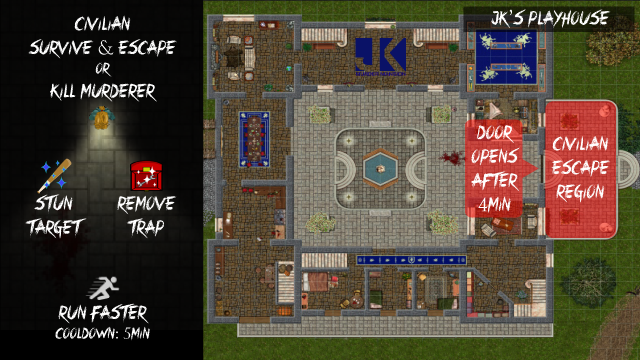
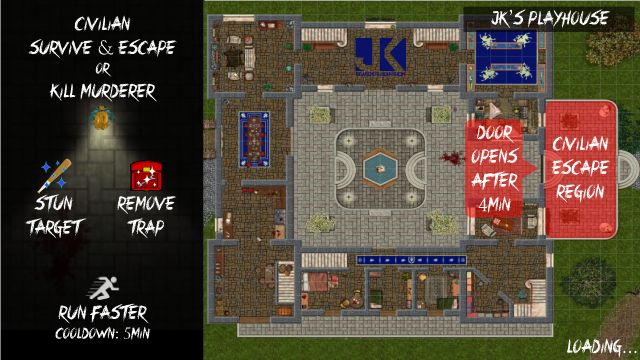
Enhanced tutorial page

Changed region(s): [[0.875, 0.9472, 0.9688, 1.0]]

diff --git a/MurderMansion/core/src/com/jkjk/Screens/TutorialScreen.java b/MurderMansion/core/src/com/jkjk/Screens/TutorialScreen.java
@@ -15,6 +15,7 @@ import com.badlogic.gdx.scenes.scene2d.ui.Image;
 import com.badlogic.gdx.scenes.scene2d.utils.ClickListener;
 import com.badlogic.gdx.utils.viewport.ExtendViewport;
 import com.jkjk.MMHelpers.AssetLoader;
+import com.jkjk.MurderMansion.MurderMansion;
 
 /**
  * @author LeeJunXiang
@@ -27,6 +28,8 @@ public class TutorialScreen implements Screen {
 	private Image civTut;
 	private Image murTut;
 	private Image hudTut;
+	private Image screenTut;
+	private Image mapTut;
 	private Image civButton;
 	private Image murButton;
 	private Image civButtonDown;
@@ -34,12 +37,14 @@ public class TutorialScreen implements Screen {
 	private Image backButton;
 	private Image nextButton;
 
-	public TutorialScreen(final MenuScreen menuScreen, float gameWidth, float gameHeight) {
+	public TutorialScreen(final MurderMansion game, final float gameWidth, final float gameHeight) {
 		stage = new Stage(new ExtendViewport(gameWidth, gameHeight));
 		page1 = new Image(AssetLoader.tutorialP1);
 		civTut = new Image(AssetLoader.civTut);
 		murTut = new Image(AssetLoader.murTut);
 		hudTut = new Image(AssetLoader.hudTutorial);
+		screenTut = new Image(AssetLoader.screenTutorial);
+		mapTut = new Image(AssetLoader.mapTutorial);
 
 		civButton = new Image(AssetLoader.civButton);
 		civButton.setPosition(464, 154);
@@ -106,9 +111,21 @@ public class TutorialScreen implements Screen {
 			@Override
 			public void clicked(InputEvent event, float x, float y) {
 				AssetLoader.clickSound.play(AssetLoader.VOLUME);
-				stage.clear();
-				stage.addActor(hudTut);
-				stage.addActor(backButton);
+				if (stage.getActors().first().equals(hudTut)) {
+					stage.clear();
+					stage.addActor(screenTut);
+					stage.addActor(backButton);
+					stage.addActor(nextButton);
+				} else if (stage.getActors().first().equals(screenTut)) {
+					stage.clear();
+					stage.addActor(mapTut);
+					stage.addActor(backButton);
+				} else {
+					stage.clear();
+					stage.addActor(hudTut);
+					stage.addActor(backButton);
+					stage.addActor(nextButton);
+				}
 			}
 
 		});
@@ -124,9 +141,20 @@ public class TutorialScreen implements Screen {
 					stage.addActor(murButton);
 					stage.addActor(backButton);
 					stage.addActor(nextButton);
+				} else if (stage.getActors().first().equals(screenTut)) {
+					stage.clear();
+					stage.addActor(hudTut);
+					stage.addActor(backButton);
+					stage.addActor(nextButton);
+				} else if (stage.getActors().first().equals(mapTut)) {
+					stage.clear();
+					stage.addActor(screenTut);
+					stage.addActor(backButton);
+					stage.addActor(nextButton);
 				} else {
 					stage.clear();
-					((Game) Gdx.app.getApplicationListener()).setScreen(menuScreen);
+					((Game) Gdx.app.getApplicationListener()).setScreen(new MenuScreen(game, gameWidth,
+							gameHeight));
 				}
 			}
 
@@ -212,7 +240,7 @@ public class TutorialScreen implements Screen {
 	@Override
 	public void dispose() {
 		// TODO Auto-generated method stub
-
+		stage.dispose();
 	}
 
 }

diff --git a/MurderMansion/core/src/com/jkjk/Screens/LoadingScreen.java b/MurderMansion/core/src/com/jkjk/Screens/LoadingScreen.java
@@ -6,18 +6,13 @@ package com.jkjk.Screens;
 import com.badlogic.gdx.Game;
 import com.badlogic.gdx.Gdx;
 import com.badlogic.gdx.Screen;
-import com.badlogic.gdx.graphics.g2d.Sprite;
-import com.badlogic.gdx.graphics.g2d.SpriteBatch;
 import com.badlogic.gdx.scenes.scene2d.Stage;
 import com.badlogic.gdx.scenes.scene2d.ui.Image;
 import com.badlogic.gdx.utils.viewport.ExtendViewport;
 import com.jkjk.GameWorld.GameRenderer;
 import com.jkjk.GameWorld.GameWorld;
-import com.jkjk.GameWorld.HudRenderer;
 import com.jkjk.GameWorld.MMClient;
-import com.jkjk.Host.MMServer;
 import com.jkjk.MMHelpers.AssetLoader;
-import com.jkjk.MMHelpers.MultiplayerSessionInfo;
 import com.jkjk.MurderMansion.MurderMansion;
 
 /**
@@ -25,16 +20,12 @@ import com.jkjk.MurderMansion.MurderMansion;
  * 
  */
 public class LoadingScreen implements Screen {
-	private MultiplayerSessionInfo info;
 	private GameWorld gWorld;
 	private GameRenderer renderer;
-	private HudRenderer hudRenderer;
-	private float runTime;
 	private float gameWidth;
 	private float gameHeight;
 	private MurderMansion game;
 
-	private MMServer server;
 	private MMClient client;
 
 	private Image loadingImageCiv;
@@ -52,7 +43,6 @@ public class LoadingScreen implements Screen {
 		this.gameWidth = gameWidth;
 		this.gameHeight = gameHeight;
 		this.client = game.mMultiplayerSession.getClient();
-		this.info = game.mMultiplayerSession;
 		this.gWorld = client.getgWorld();
 		this.renderer = client.getRenderer();
 		stage = new Stage(new ExtendViewport(gameWidth, gameHeight));
@@ -85,6 +75,7 @@ public class LoadingScreen implements Screen {
 	public void render(float delta) {
 		stage.draw();
 		stage.act();
+
 		if (renderLoops == 500) {
 			AssetLoader.loadGameSfx();
 			System.out.println("Setting screen to new game screen.");

diff --git a/MurderMansion/core/src/com/jkjk/MMHelpers/AssetLoader.java b/MurderMansion/core/src/com/jkjk/MMHelpers/AssetLoader.java
@@ -221,6 +221,8 @@ public class AssetLoader {
 	public static Texture tutorialP1;
 	public static Texture hudOverlay;
 	public static Texture hudTutorial;
+	public static Texture screenTutorial;
+	public static Texture mapTutorial;
 	public static Texture civButton;
 	public static Texture civButtonDown;
 	public static Texture murButton;
@@ -298,7 +300,7 @@ public class AssetLoader {
 		crimesFont36Time = new BitmapFont(Gdx.files.internal("Fonts/crimesFont36.fnt"));
 		crimesFont36Time.setScale(0.7f, 0.7f);
 		crimesFont36Settings = new BitmapFont(Gdx.files.internal("Fonts/crimesFont36.fnt"));
-		basker32Message = new BitmapFont(Gdx.files.internal("Fonts/basker32.fnt"));
+		basker32Message = new BitmapFont(Gdx.files.internal("Fonts/Basker32.fnt"));
 	}
 
 	public static void loadMenuScreen() {
@@ -785,6 +787,8 @@ public class AssetLoader {
 		tutorialP1 = new Texture(Gdx.files.internal("tutorial/Tutorial-Page-1.png"));
 		hudOverlay = new Texture(Gdx.files.internal("tutorial/HUD-Overlay-Tutorial.png"));
 		hudTutorial = new Texture(Gdx.files.internal("tutorial/HUD-Tutorial.png"));
+		screenTutorial = new Texture(Gdx.files.internal("tutorial/Screen-Tutorial.png"));
+		mapTutorial = new Texture(Gdx.files.internal("tutorial/Map-Tutorial.png"));
 		civButton = new Texture(Gdx.files.internal("tutorial/civButton.png"));
 		civButtonDown = new Texture(Gdx.files.internal("tutorial/civButtonDown.png"));
 		murButton = new Texture(Gdx.files.internal("tutorial/murButton.png"));
@@ -879,6 +883,8 @@ public class AssetLoader {
 			tutorialP1.dispose();
 			hudOverlay.dispose();
 			hudTutorial.dispose();
+			screenTutorial.dispose();
+			mapTutorial.dispose();
 			civButton.dispose();
 			civButtonDown.dispose();
 			murButton.dispose();

diff --git a/MurderMansion/core/src/com/jkjk/Screens/MenuScreen.java b/MurderMansion/core/src/com/jkjk/Screens/MenuScreen.java
@@ -124,13 +124,13 @@ public class MenuScreen implements Screen {
 
 			}
 		});
-		final MenuScreen menuScreen = this;
+
 		buttonTutorial.addListener(new ClickListener() {
 			@Override
 			public void clicked(InputEvent event, float x, float y) {
 				AssetLoader.clickSound.play(AssetLoader.VOLUME);
 				// TODO Set to tutorial screen
-				((Game) Gdx.app.getApplicationListener()).setScreen(new TutorialScreen(menuScreen, gameWidth,
+				((Game) Gdx.app.getApplicationListener()).setScreen(new TutorialScreen(game, gameWidth,
 						gameHeight));
 			}
 		});
